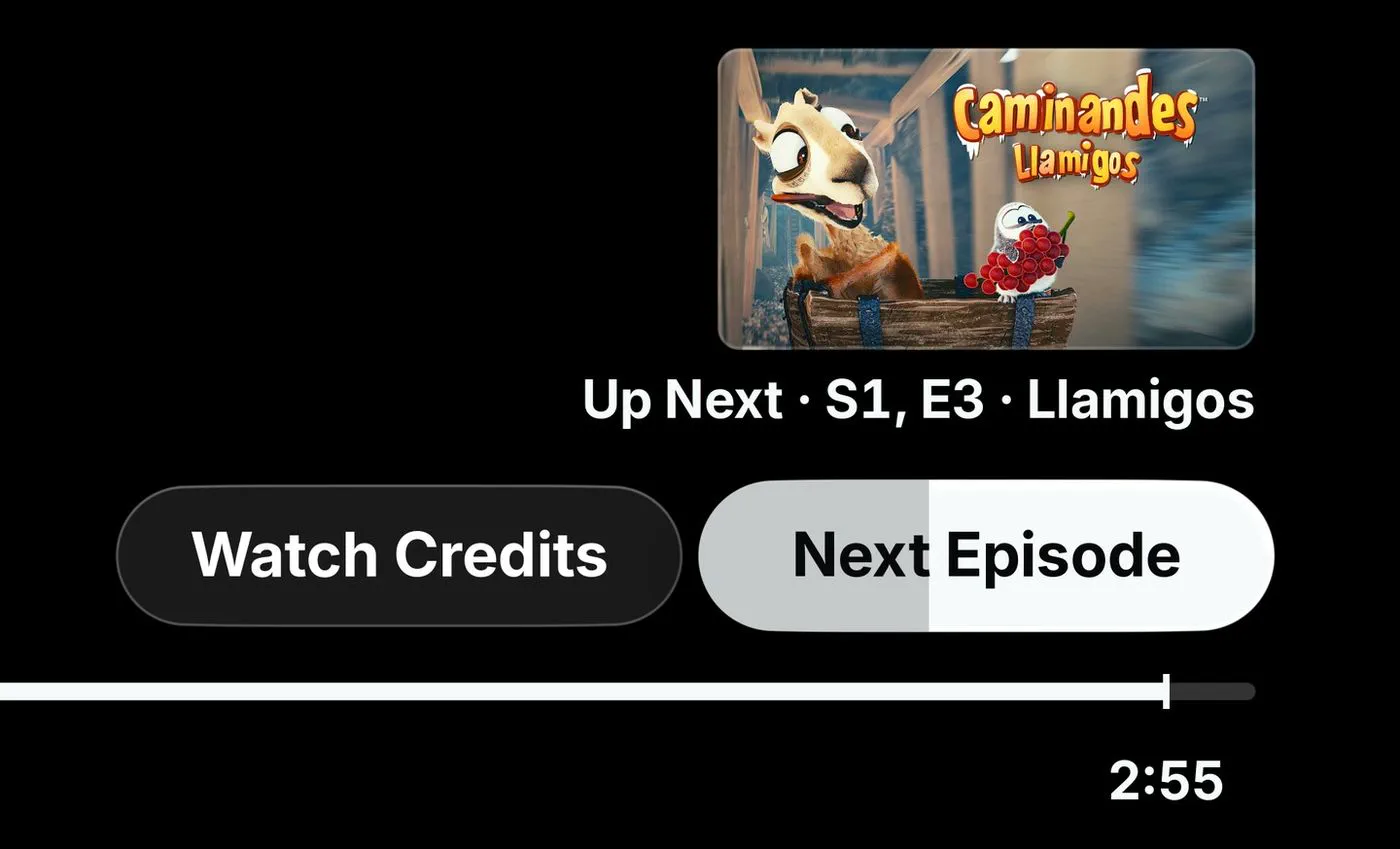
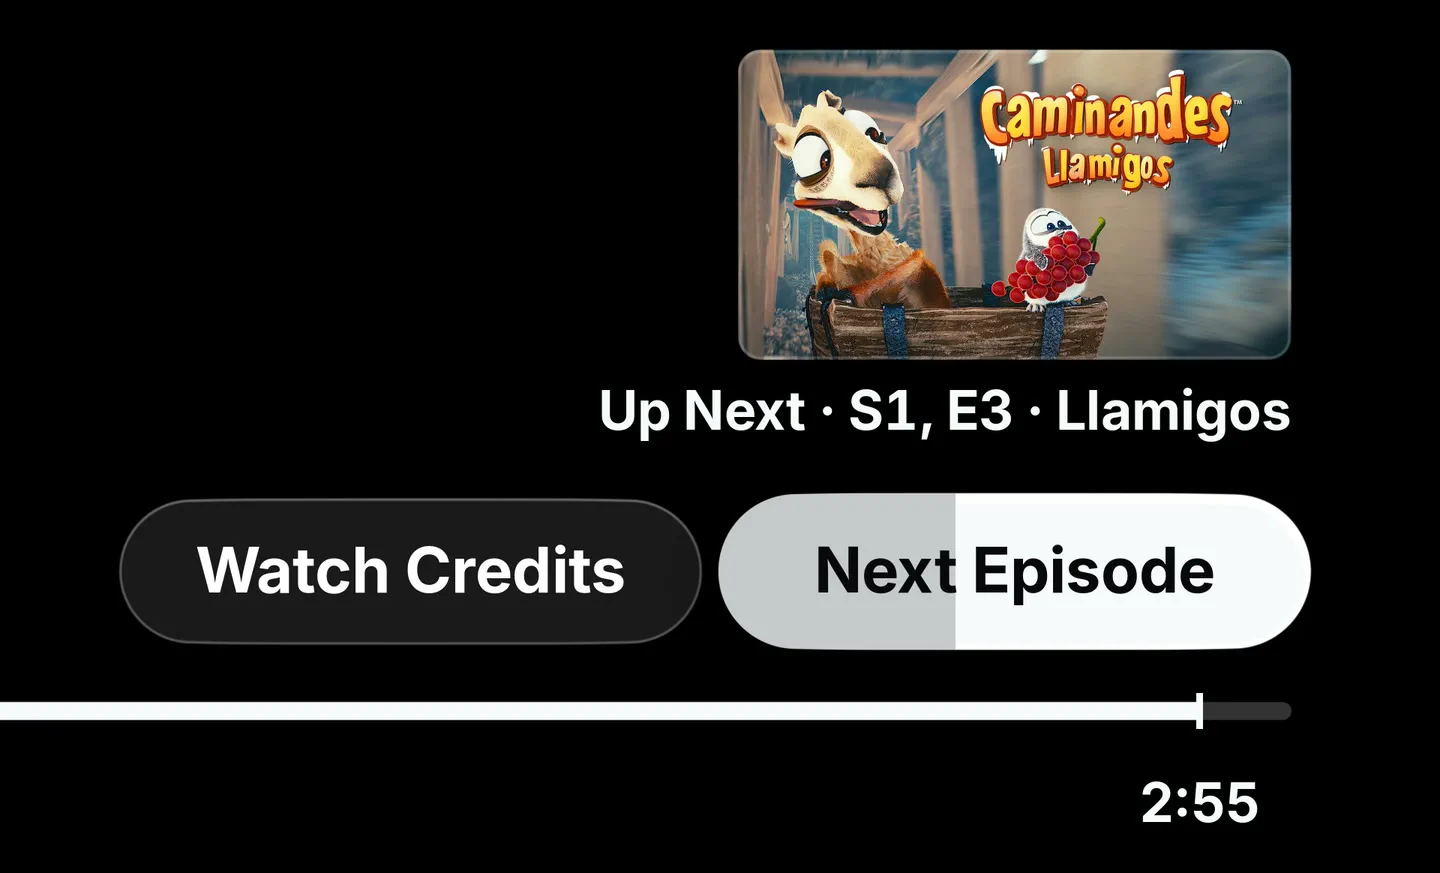
Up Next: the player screen comes to rest, and the site's Up Next close-up is rerendered (#491)
With Up Next showing, the player screen never stopped presenting. PlaybackSession::publication copies the session every frame and that copy deep-cloned the Up Next row. A card's placement history is keyed by the address of its thumb string, so the Up Next still was a new card every frame: its verdict stayed Unknown, an uncached still was declined for ever, and each decline invalidated the idle gate. The site-up-next screenshot scene timed out ('no settled frame within 90s') on exactly this, and in the product an uncached Up Next still stayed a placeholder.

PlaybackSession.up_next is now Option<Arc<UpNext>>, so every publication lends the same row. Regression test route::decision::next_episode_tests::every_publication_lends_the_same_up_next_thumb, seen failing before the fix and passing after. The site's Up Next close-up is rerendered at the scene's 1440x873 with its WebP, phone copy and glow.

diff --git a/rust-modules/media/src/route/decision.rs b/rust-modules/media/src/route/decision.rs
@@ -340,7 +340,13 @@ pub struct PlaybackSession {
     /// The next episode of the item now playing, or None (a movie, the last episode, or a queue
     /// that failed). Installed by [`apply_plan`]; [`request_play`] retires it the moment a new item
     /// resolves. Read through [`up_next`], which lends a `&'static`.
-    up_next: Option<UpNext>,
+    ///
+    /// Shared, not owned: [`publication`](Self::publication) copies the session every frame, and
+    /// the Up Next still is a card whose placement history is keyed by the address of this row's
+    /// `thumb` (`plx_ui::widgets::Art::motion_identity`). A deep copy gave the card a new identity
+    /// every frame, so a still that was not cached yet was declined for ever and the player
+    /// screen never came to rest.
+    up_next: Option<std::sync::Arc<UpNext>>,
     /// The whole queue behind the item now playing — the playing row included, in queue order,
     /// projected to `plex::QueueRow` ON THE RESOLVE WORKER (a `Metadata` row carries its entire
     /// Media/Part/Stream/Role tree; a show's queue is dozens of them, and this device is 32-bit).
@@ -7104,7 +7110,7 @@ pub(super) struct QueueInfo {
 /// only writer is what keeps that reference sound. A caller that STARTS the next episode must
 /// clone first: `request_play` clears this before the new plan lands.
 pub fn up_next(ps: &PlaybackSession) -> Option<&UpNext> {
-    ps.up_next.as_ref()
+    ps.up_next.as_deref()
 }
 
 /// The current playback's queue rows, in queue order, the row now playing among them — locate it
@@ -8175,7 +8181,7 @@ fn apply_plan(ps: &mut PlaybackSession, meta: &mut plx_data::stores::metadata::M
             stream_immersive: plan.immersive,
             title,
             ctxline,
-            up_next: plan.up_next,
+            up_next: plan.up_next.map(std::sync::Arc::new),
             queue: plan.queue,
             // The frame tick is the MACHINE's, not the plan's: a landing replaces the session's
             // contents and must not rewind the stamp `Player::set_now` wrote this iteration.

diff --git a/rust-modules/media/src/route/decision_next_episode_tests.rs b/rust-modules/media/src/route/decision_next_episode_tests.rs
@@ -55,3 +55,19 @@ fn a_failed_write_changes_and_reports_nothing() {
     assert_eq!(next_episode_mode(), NextEpisodeMode::Countdown);
     assert!(events.is_empty(), "{events:?}");
 }
+
+/// The Up Next still is a card, and a card's placement history is keyed by the ADDRESS of its
+/// thumb path (`plx_ui::widgets::Art::motion_identity`). The screen reads the per-frame
+/// [`PlaybackSession::publication`], so a publication that copies the path hands the card a new
+/// identity every frame: its placement stays unknown, a still that is not in the cache yet is
+/// declined for ever, and each decline asks for another frame — a player screen that never comes
+/// to rest (the `site-up-next` screenshot scene timed out on exactly this).
+#[test]
+fn every_publication_lends_the_same_up_next_thumb() {
+    let mut ps = PlaybackSession::IDLE;
+    ps.up_next = Some(UpNext { thumb: "/library/metadata/2011003/thumb/1".into(), ..Default::default() }.into());
+    let (a, b) = (ps.publication(), ps.publication());
+    let (a, b) = (up_next(&a).unwrap(), up_next(&b).unwrap());
+    assert_eq!(a.thumb, "/library/metadata/2011003/thumb/1");
+    assert_eq!(a.thumb.as_ptr(), b.thumb.as_ptr(), "two frames must see one card identity");
+}
